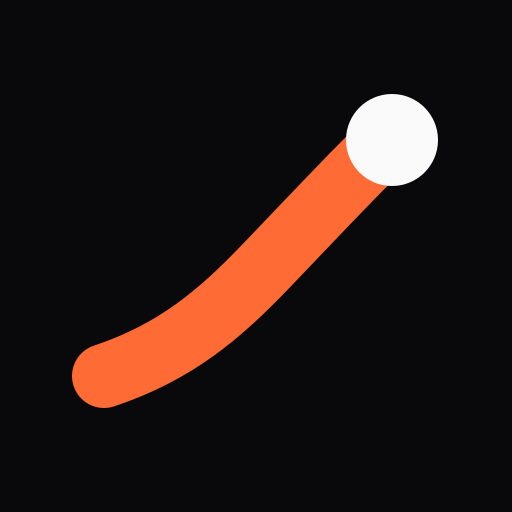
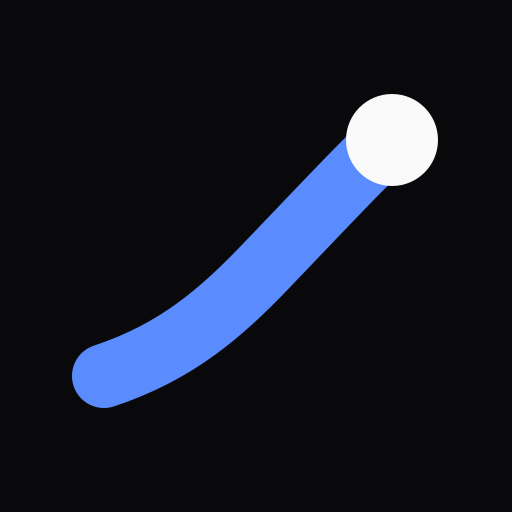
Switch the accent to ballpoint blue, and colour candles by direction
The accent is the ink you would draw the line in. A true ballpoint (#1b3fbf)
is only 2.4:1 on this ground, so it could be a button fill but never a figure,
and the hue has to be both: the drawn path, target levels, kickers and the
primary action. #5b8cff lands at 6.3:1 on --bg with a dark label at 6.2:1.

Candles and 24h changes now use --up and --down rather than the accent. Green
up and red down is a convention traders read without thinking, and overriding
it to stay on palette made every chart on the page harder to scan. The market
keeps its own colours; the line you drew stays blue, which is the distinction
the hero is making anyway.

Also regenerates the app icon and the OG card on the new hue, and repairs a few
CSS section comments that an earlier em-dash sweep had mangled into ", ...".

Changed region(s): [[0.125, 0.25, 0.75, 0.8125]]

diff --git a/ui/landing/src/app/globals.css b/ui/landing/src/app/globals.css
@@ -200,7 +200,7 @@
  * target level, the primary action. Never decoration.
  */
 .dark {
-  /*, ground ------------------------------------------------------------- */
+  /* --- ground ------------------------------------------------------------- */
   --bg: #09090b;
   --surface: #0e0e11;
   --surface-2: #151518;
@@ -210,24 +210,37 @@
      so it has to be beaten here or every primitive keeps its corners. */
   --radius: 0rem;
 
-  /*, ink ---------------------------------------------------------------- */
+  /* --- ink ---------------------------------------------------------------- */
   --fg: #fafafa;
   --fg-muted: #a1a1aa;
   /* Verified 4.9:1 on --surface for 12px kickers. See scripts/check-contrast.mjs. */
   --fg-subtle: #82828d;
 
-  /*, the one hue -------------------------------------------------------- */
-  /* Marker orange: the colour of the pen you would draw on a screenshot with.
-     Warm, and nowhere near the green every other perps venue reaches for. */
-  --brand: #ff6b35;
-  --brand-soft: #ff8c5a;
-  --brand-dim: #ff6b3522;
+  /* --- the one hue ------------------------------------------------------ */
+  /* Ballpoint blue: the ink you would actually draw the line in.
+   *
+   * Pitched lighter than real ink on purpose. A true ballpoint (#1b3fbf) is
+   * only 2.4:1 on this ground, so it could be a button fill but never a
+   * figure, and this hue has to be both: the drawn path, up-ticks, target
+   * levels and the primary action. This lands at 6.3:1 on --bg, with a dark
+   * label reading 6.2:1 on top of it. Verified by scripts/check-contrast.mjs. */
+  --brand: #5b8cff;
+  --brand-soft: #7ba3ff;
+  --brand-dim: #5b8cff22;
+
+  /* Market direction. Not part of the accent system: green up and red down is
+   * a convention traders read without thinking, and overriding it to stay on
+   * palette would make every chart on the page harder to scan. These are only
+   * ever used for price movement, never for UI state.
+   * 8.7:1 and 5.3:1 on --bg. */
+  --up: #22c55e;
+  --down: #f04438;
 
   /* Structural rules, dimmer than a border: these are the page grid. */
   --grid-dot: #1a1a1f;
   --grid-line: #141418;
 
-  /*, mapped onto coss tokens -------------------------------------------- */
+  /* --- mapped onto coss tokens -------------------------------------------- */
   --background: var(--bg);
   --foreground: var(--fg);
   --card: var(--surface);
@@ -246,7 +259,7 @@
   /* Green is the live/positive voice: primary action, up-ticks, the target
      level, the drawn path. Everything structural stays neutral. */
   --primary: var(--brand);
-  --primary-foreground: #180701;
+  --primary-foreground: #060b18;
   --ring: var(--fg);
 
   --destructive: var(--color-red-500);
@@ -255,7 +268,7 @@
   --info-foreground: var(--brand);
   --success: var(--brand);
   --success-foreground: var(--brand);
-  --brand-foreground: #180701;
+  --brand-foreground: #060b18;
   --warning: var(--color-amber-500);
   --warning-foreground: var(--color-amber-400);
 
@@ -268,6 +281,8 @@
   --color-brand: var(--brand);
   --color-brand-soft: var(--brand-soft);
   --color-brand-dim: var(--brand-dim);
+  --color-up: var(--up);
+  --color-down: var(--down);
   --color-fg-muted: var(--fg-muted);
   --color-fg-subtle: var(--fg-subtle);
   --color-surface: var(--surface);

diff --git a/ui/landing/src/components/site/how-it-works.tsx b/ui/landing/src/components/site/how-it-works.tsx
@@ -130,10 +130,11 @@ export function HowItWorks() {
                 const x = 16 + i * cstep;
                 const top = cy(Math.max(c.o, c.c));
                 const bottom = cy(Math.min(c.o, c.c));
+                const colour = c.c >= c.o ? "var(--up)" : "var(--down)";
                 return (
-                  <g key={i} opacity="0.5">
+                  <g key={i} opacity="0.7">
                     <line
-                      stroke="var(--fg-subtle)"
+                      stroke={colour}
                       strokeWidth="1"
                       x1={x + cstep / 2}
                       x2={x + cstep / 2}
@@ -141,7 +142,7 @@ export function HowItWorks() {
                       y2={cy(c.l)}
                     />
                     <rect
-                      fill="var(--fg-subtle)"
+                      fill={colour}
                       height={Math.max(1.5, bottom - top)}
                       width={cstep * 0.58}
                       x={x + cstep * 0.21}

diff --git a/ui/landing/src/components/site/markets.tsx b/ui/landing/src/components/site/markets.tsx
@@ -37,9 +37,9 @@ function Candles({
           const up = k.c >= k.o;
           const top = y(Math.max(k.o, k.c));
           const bottom = y(Math.min(k.o, k.c));
-          const colour = up ? "var(--brand)" : "var(--fg-subtle)";
+          const colour = up ? "var(--up)" : "var(--down)";
           return (
-            <g key={i} opacity={up ? 1 : 0.55}>
+            <g key={i} opacity="0.9">
               <line
                 stroke={colour}
                 strokeWidth="1.4"
@@ -115,7 +115,7 @@ export function Markets() {
                 <span
                   className={cn(
                     "font-mono text-sm tabular-nums",
-                    up ? "text-brand" : "text-fg-subtle",
+                    up ? "text-up" : "text-down",
                   )}
                 >
                   {fmtSigned(t.change)}%

diff --git a/ui/landing/src/components/site/trade-chart.tsx b/ui/landing/src/components/site/trade-chart.tsx
@@ -133,10 +133,10 @@ export function TradeChart({ className }: { className?: string }) {
         const bottom = y(Math.min(c.o, c.c));
         return (
           <g
-            fill={up ? "var(--brand)" : "var(--fg-subtle)"}
+            fill={up ? "var(--up)" : "var(--down)"}
             key={i}
-            opacity={up ? 0.42 : 0.5}
-            stroke={up ? "var(--brand)" : "var(--fg-subtle)"}
+            opacity="0.75"
+            stroke={up ? "var(--up)" : "var(--down)"}
           >
             <line
               strokeWidth="0.9"

diff --git a/ui/landing/src/components/site/trade-panel.tsx b/ui/landing/src/components/site/trade-panel.tsx
@@ -51,7 +51,7 @@ export function TradePanel({ className }: { className?: string }) {
         <span className="font-mono text-foreground text-sm tabular-nums">
           {fmtUsd(MARKET.last, 2)}
         </span>
-        <span className="font-mono text-brand text-xs tabular-nums">
+        <span className="font-mono text-up text-xs tabular-nums">
           {fmtSigned(MARKET.change24h)}%
         </span>
         <span className="ml-auto hidden items-center gap-1.5 text-fg-subtle text-xs sm:flex">

diff --git a/ui/landing/src/components/site/ticker.tsx b/ui/landing/src/components/site/ticker.tsx
@@ -34,7 +34,7 @@ export function Ticker({ className }: { className?: string }) {
             <span
               className={cn(
                 "text-right font-mono text-xs tabular-nums",
-                t.change >= 0 ? "text-brand" : "text-fg-subtle",
+                t.change >= 0 ? "text-up" : "text-down",
               )}
             >
               {fmtSigned(t.change)}%

diff --git a/ui/landing/src/app/opengraph-image.tsx b/ui/landing/src/app/opengraph-image.tsx
@@ -100,7 +100,7 @@ export default async function OpengraphImage() {
                 style={{
                   width: 7,
                   height: h,
-                  backgroundColor: i > 20 ? "#ff6b35" : "#2a2a30",
+                  backgroundColor: i > 20 ? "#5b8cff" : "#2a2a30",
                 }}
               />
             ))}
